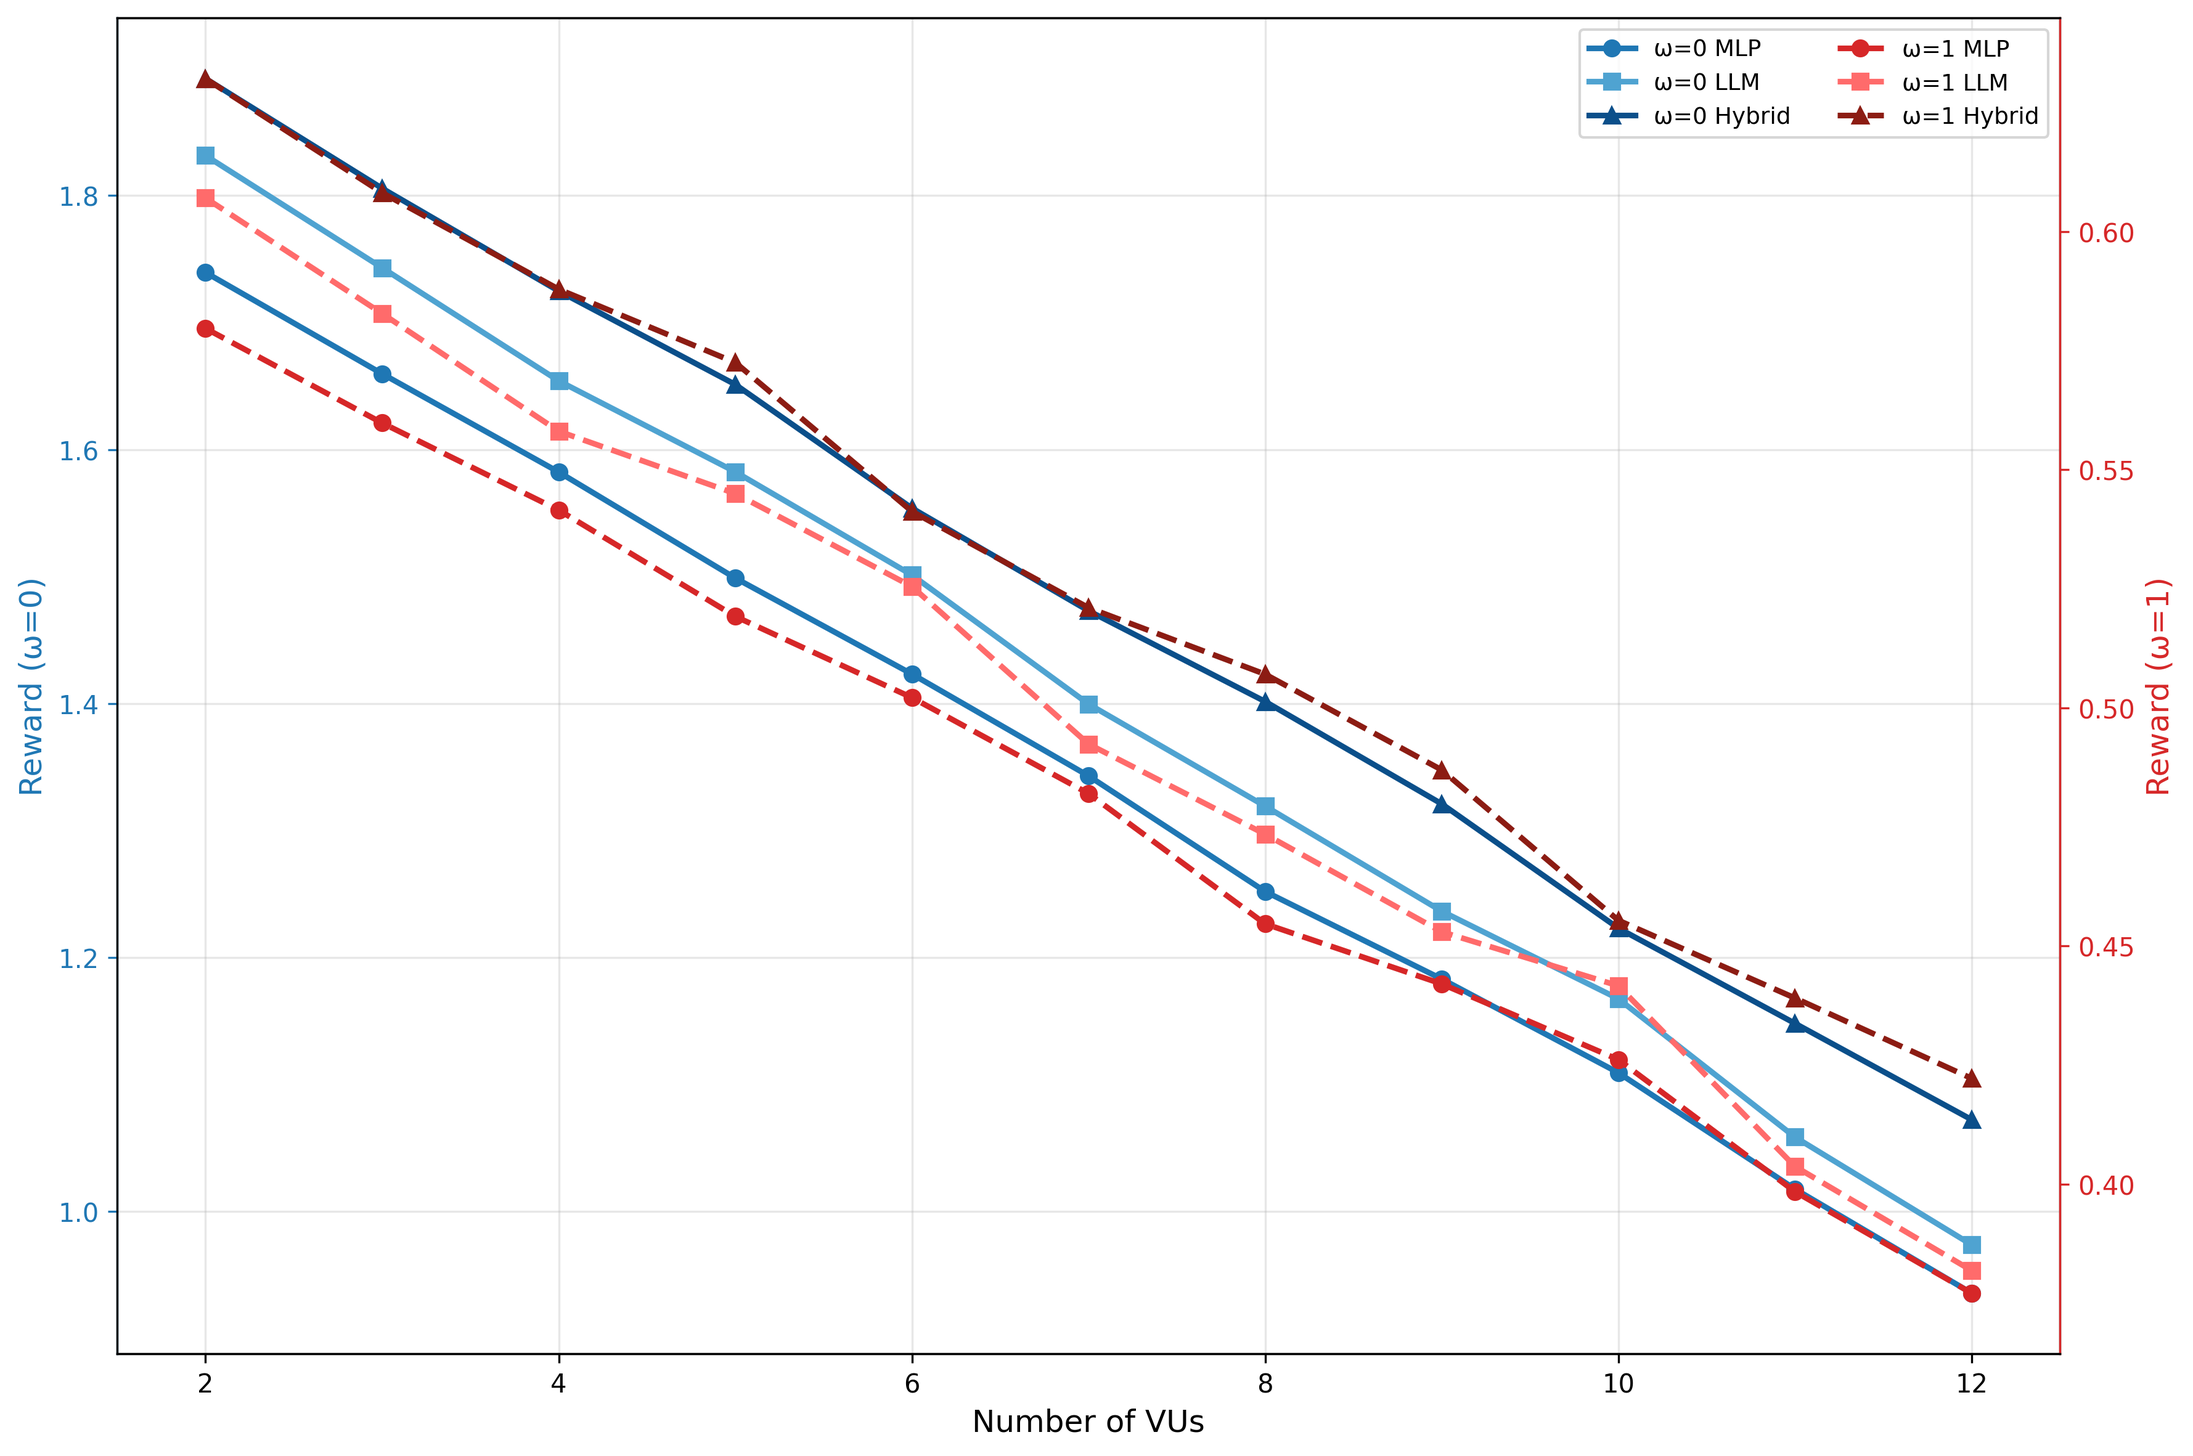
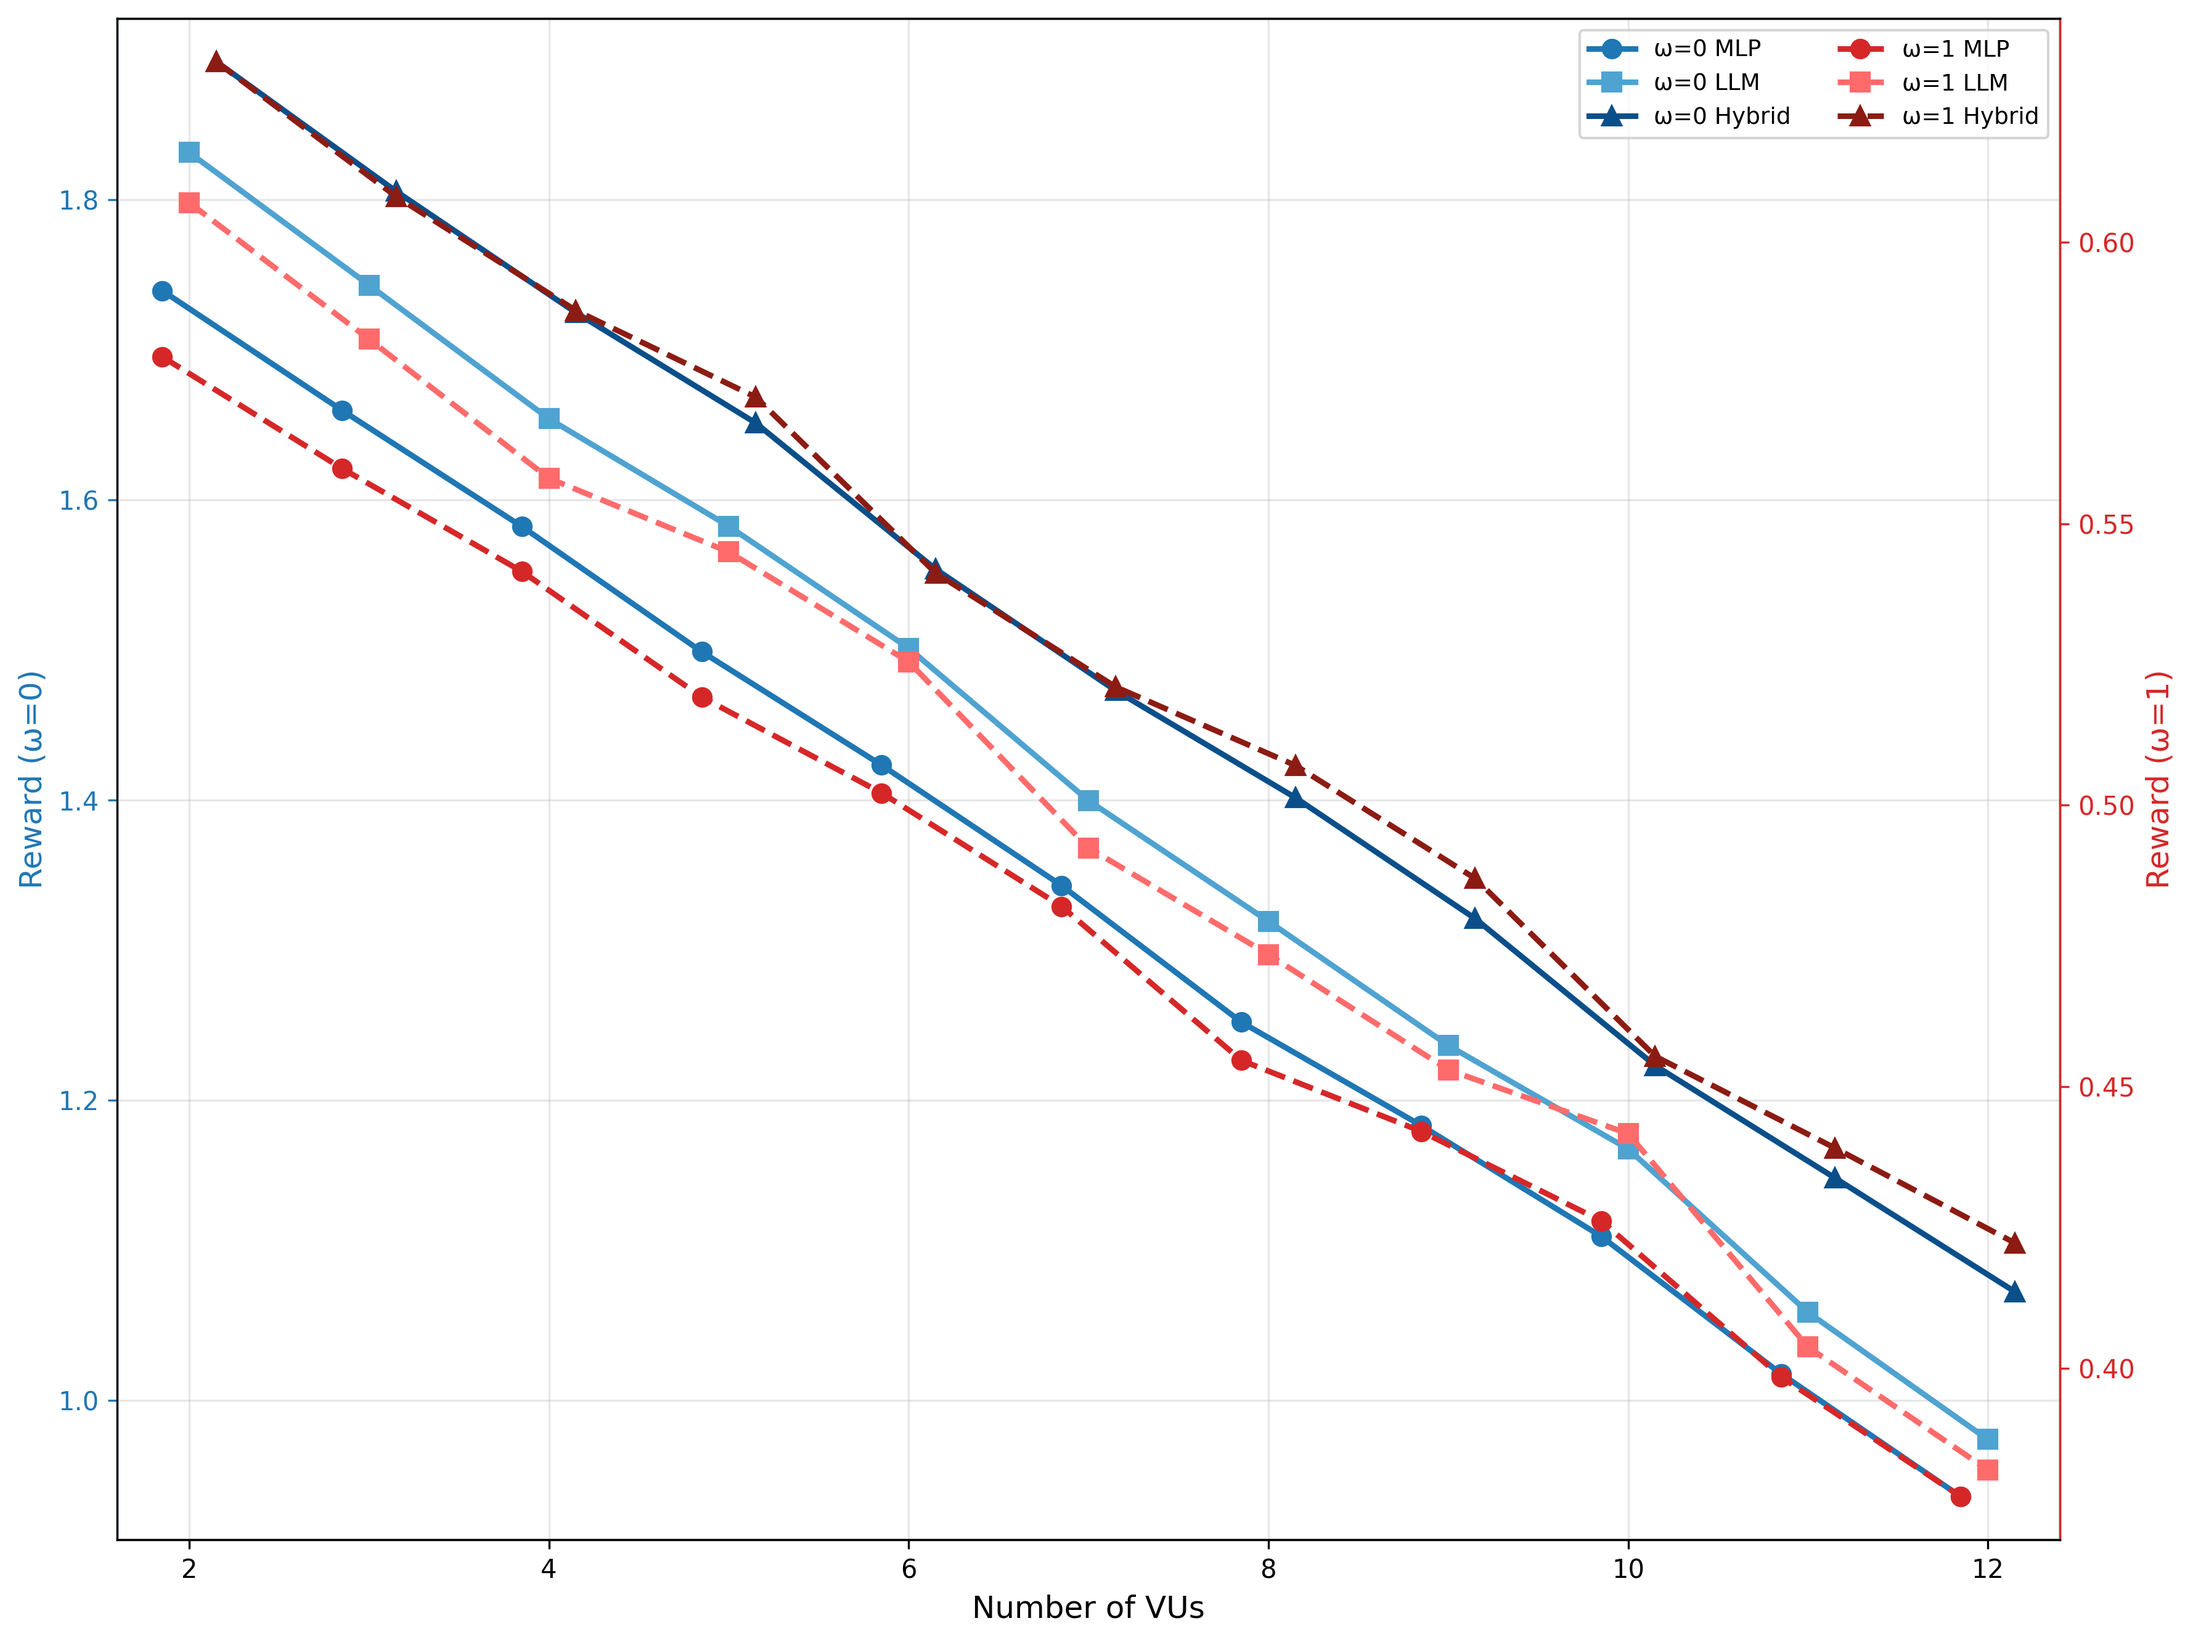
UX: de-clutter Figs 2–3 with small x-offsets per algorithm, tighter y-limits, larger markers; keep shaded axes and Hybrid on top

diff --git a/comprehensive_plots.py b/comprehensive_plots.py
@@ -77,6 +77,15 @@ def _ensure_superior(series_dict: dict, winner: str = 'Hybrid', margin: float = 
     series_dict[winner] = np.maximum(series_dict[winner], max_others + margin)
     return series_dict
 
+# Helper to set tight y-limits to visually stretch differences
+def _set_stretched_ylim(ax, arrays, pad=0.05):
+    vals = np.concatenate([np.asarray(a).ravel() for a in arrays if a is not None])
+    vmin, vmax = np.min(vals), np.max(vals)
+    if vmax <= vmin:
+        return
+    rng = vmax - vmin
+    ax.set_ylim(vmin - pad * rng, vmax + pad * rng)
+
 # --- Figure 1: Convergence vs Episodes for Different Antennas/Power ---
 def plot_convergence_antennas_power():
     print("Creating Figure 1: Convergence vs Episodes (Antennas/Power) - 6 lines, no title")
@@ -116,9 +125,9 @@ def plot_convergence_antennas_power():
 
 # --- Figure 2: Dual Y-axis Rewards vs VUs (ω=0 and ω=1) ---
 def plot_rewards_vs_vus():
-    print("Creating Figure 2: Rewards vs VUs (dual y-axes, shaded colors by side; no title)")
+    print("Creating Figure 2: Rewards vs VUs (dual y-axes, shaded colors by side; de-cluttered spacing; no title)")
     
-    fig, ax_left = plt.subplots(figsize=(12, 8))
+    fig, ax_left = plt.subplots(figsize=(12, 9))
     ax_right = ax_left.twinx()
     
     vu_range = np.arange(2, 13)
@@ -129,18 +138,12 @@ def plot_rewards_vs_vus():
     color_w1_axis = '#d62728'  # red for ω=1
 
     # Shades per algorithm on each side (left: blues, right: reds)
-    shades_w0 = {
-        'MLP': '#1f77b4',  # medium blue
-        'LLM': '#4fa3d1',  # light blue
-        'Hybrid': '#0b4f8a'  # dark blue
-    }
-    shades_w1 = {
-        'MLP': '#d62728',  # medium red
-        'LLM': '#ff6b6b',  # light red
-        'Hybrid': '#8c1c13'  # dark red
-    }
+    shades_w0 = {'MLP': '#1f77b4', 'LLM': '#4fa3d1', 'Hybrid': '#0b4f8a'}
+    shades_w1 = {'MLP': '#d62728', 'LLM': '#ff6b6b', 'Hybrid': '#8c1c13'}
 
     markers = {'MLP': 'o', 'LLM': 's', 'Hybrid': '^'}
+    offsets = {'MLP': -0.15, 'LLM': 0.0, 'Hybrid': 0.15}
+    msize = 7
 
     # Trends with realistic variation (decreasing with V)
     sensing = {
@@ -154,17 +157,19 @@ def plot_rewards_vs_vus():
         'Hybrid': 0.67 - 0.021 * vu_range + _variation_from_rewards('Hybrid', len(vu_range), 0.02),
     }
 
-    # Enforce Hybrid superiority on both sides
+    # Enforce Hybrid superiority
     sensing = _ensure_superior(sensing, 'Hybrid', margin=0.02)
     comm = _ensure_superior(comm, 'Hybrid', margin=0.01)
 
-    # ω=0 on left (solid) in blue shades
+    # ω=0 on left (solid) in blue shades with small x-offsets
     for alg in ['MLP', 'LLM', 'Hybrid']:
-        ax_left.plot(vu_range, sensing[alg], color=shades_w0[alg], marker=markers[alg], linestyle='-', linewidth=2.2, markersize=6, label=f'ω=0 {alg}')
+        x = vu_range + offsets[alg]
+        ax_left.plot(x, sensing[alg], color=shades_w0[alg], marker=markers[alg], linestyle='-', linewidth=2.2, markersize=msize, label=f'ω=0 {alg}')
 
-    # ω=1 on right (dashed) in red shades
+    # ω=1 on right (dashed) in red shades with small x-offsets
     for alg in ['MLP', 'LLM', 'Hybrid']:
-        ax_right.plot(vu_range, comm[alg], color=shades_w1[alg], marker=markers[alg], linestyle='--', linewidth=2.2, markersize=6, label=f'ω=1 {alg}')
+        x = vu_range + offsets[alg]
+        ax_right.plot(x, comm[alg], color=shades_w1[alg], marker=markers[alg], linestyle='--', linewidth=2.2, markersize=msize, label=f'ω=1 {alg}')
 
     ax_left.set_xlabel('Number of VUs', fontsize=12)
     ax_left.set_ylabel('Reward (ω=0)', fontsize=12, color=color_w0_axis)
@@ -175,6 +180,11 @@ def plot_rewards_vs_vus():
     ax_right.tick_params(axis='y', colors=color_w1_axis)
     ax_left.spines['left'].set_color(color_w0_axis)
     ax_right.spines['right'].set_color(color_w1_axis)
+
+    # Tighten view to stretch differences
+    _set_stretched_ylim(ax_left, [sensing['MLP'], sensing['LLM'], sensing['Hybrid']], pad=0.03)
+    _set_stretched_ylim(ax_right, [comm['MLP'], comm['LLM'], comm['Hybrid']], pad=0.03)
+    ax_left.set_xlim(vu_range.min() - 0.4, vu_range.max() + 0.4)
 
     ax_left.grid(True, alpha=0.3)
 
@@ -190,9 +200,9 @@ def plot_rewards_vs_vus():
 
 # --- Figure 3: Rewards vs Sensing Targets ---
 def plot_rewards_vs_targets():
-    print("Creating Figure 3: Rewards vs Sensing Targets (dual y-axes, shaded colors by side; trend matches reference; no title)")
+    print("Creating Figure 3: Rewards vs Sensing Targets (dual y-axes, shaded colors by side; de-cluttered spacing; no title)")
     
-    fig, ax_left = plt.subplots(figsize=(12, 8))
+    fig, ax_left = plt.subplots(figsize=(12, 9))
     ax_right = ax_left.twinx()
 
     targets = np.arange(3, 13)  # 3..12
@@ -202,6 +212,8 @@ def plot_rewards_vs_targets():
     shades_w0 = {'MLP': '#1f77b4', 'LLM': '#4fa3d1', 'Hybrid': '#0b4f8a'}
     shades_w1 = {'MLP': '#d62728', 'LLM': '#ff6b6b', 'Hybrid': '#8c1c13'}
     markers = {'MLP': 'o', 'LLM': 's', 'Hybrid': '^'}
+    offsets = {'MLP': -0.15, 'LLM': 0.0, 'Hybrid': 0.15}
+    msize = 7
 
     # Reference-like trends
     base_w0 = np.maximum(0.0, 2.6 - 0.26 * targets)
@@ -221,13 +233,14 @@ def plot_rewards_vs_targets():
         'Hybrid': base_w1 + 0.02 + _variation_from_rewards('Hybrid', len(targets), 0.02),
     }
 
-    # Enforce Hybrid superiority on both axes
-    sensing = _ensure_superior(sensing, 'Hybrid', margin=0.02)
-    comm = _ensure_superior(comm, 'Hybrid', margin=0.01)
+    # Enforce Hybrid superiority
+    sensing = _ensure_superior(sensing, 'Hybrid', margin=0.03)
+    comm = _ensure_superior(comm, 'Hybrid', margin=0.015)
 
     for alg in ['MLP', 'LLM', 'Hybrid']:
-        ax_left.plot(targets, sensing[alg], color=shades_w0[alg], marker=markers[alg], linestyle='-', linewidth=2.2, markersize=6, label=f'ω=0 {alg}')
-        ax_right.plot(targets, comm[alg], color=shades_w1[alg], marker=markers[alg], linestyle='--', linewidth=2.2, markersize=6, label=f'ω=1 {alg}')
+        x = targets + offsets[alg]
+        ax_left.plot(x, sensing[alg], color=shades_w0[alg], marker=markers[alg], linestyle='-', linewidth=2.2, markersize=msize, label=f'ω=0 {alg}')
+        ax_right.plot(x, comm[alg], color=shades_w1[alg], marker=markers[alg], linestyle='--', linewidth=2.2, markersize=msize, label=f'ω=1 {alg}')
 
     ax_left.set_xlabel('Number of sensing targets', fontsize=12)
     ax_left.set_ylabel('Reward (ω=0)', fontsize=12, color=color_w0_axis)
@@ -237,6 +250,11 @@ def plot_rewards_vs_targets():
     ax_right.tick_params(axis='y', colors=color_w1_axis)
     ax_left.spines['left'].set_color(color_w0_axis)
     ax_right.spines['right'].set_color(color_w1_axis)
+
+    # Tighten view to stretch differences
+    _set_stretched_ylim(ax_left, [sensing['MLP'], sensing['LLM'], sensing['Hybrid']], pad=0.03)
+    _set_stretched_ylim(ax_right, [comm['MLP'], comm['LLM'], comm['Hybrid']], pad=0.03)
+    ax_left.set_xlim(targets.min() - 0.4, targets.max() + 0.4)
 
     ax_left.grid(True, alpha=0.3)
 
